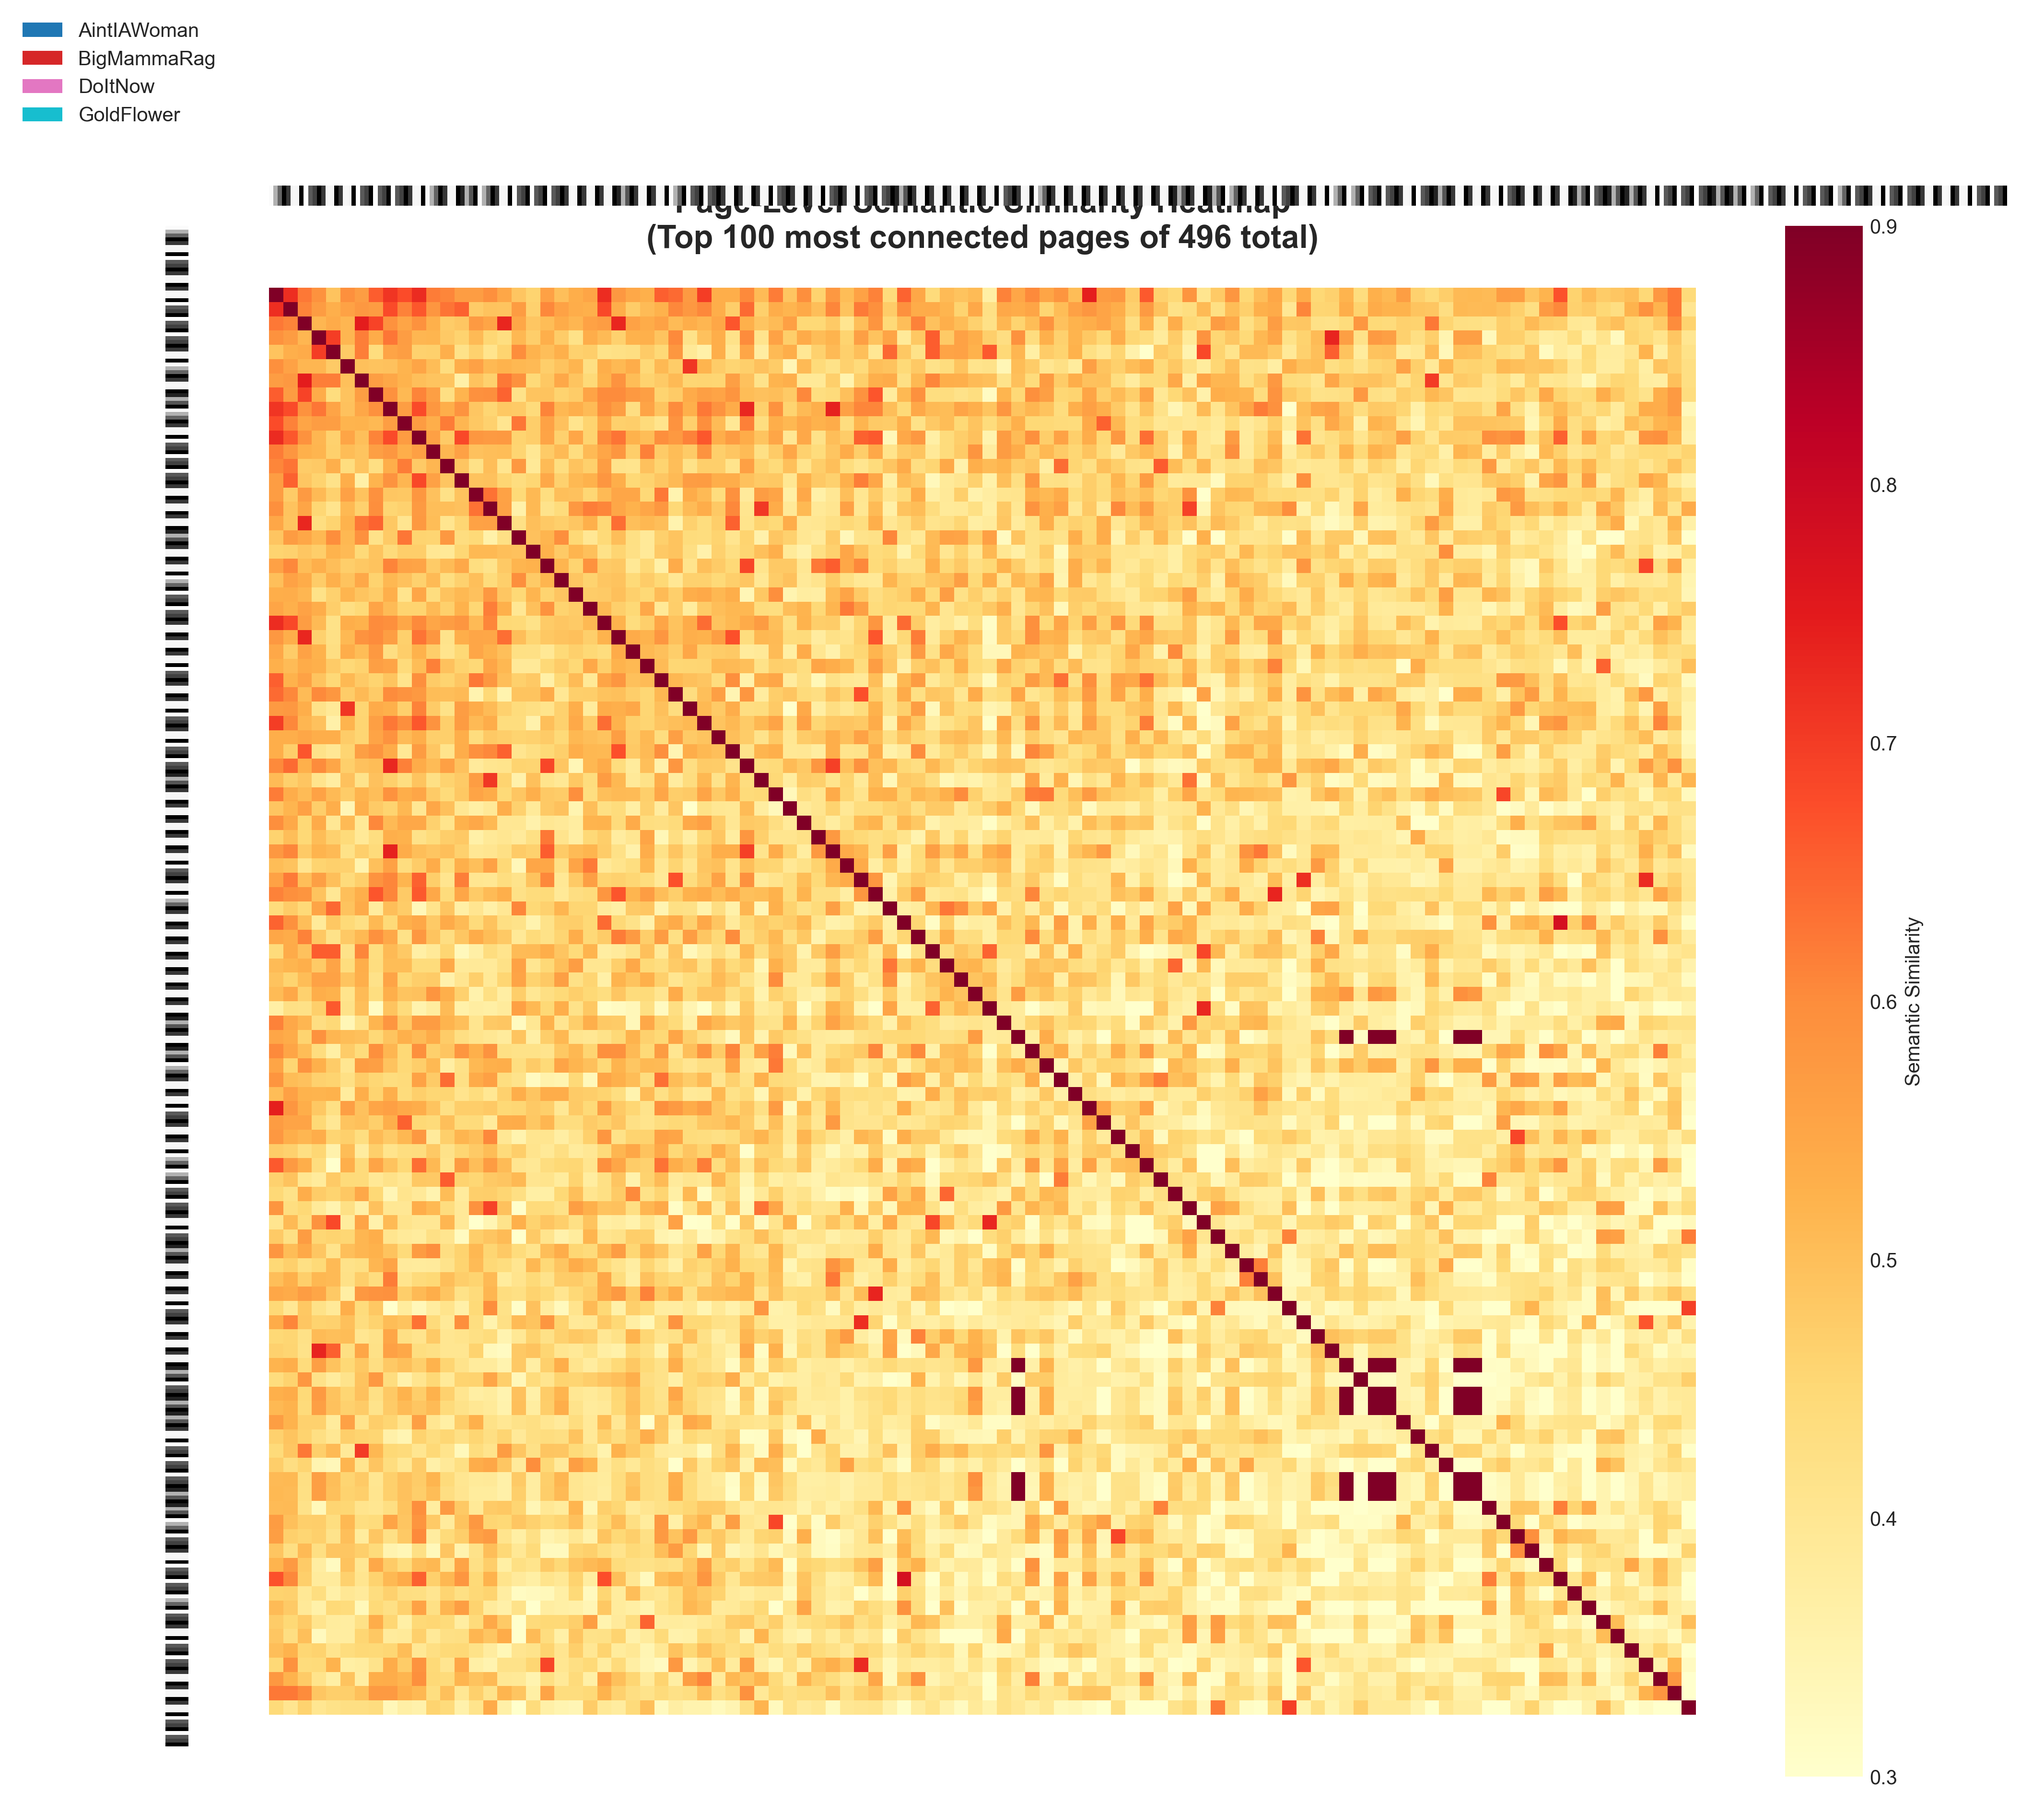
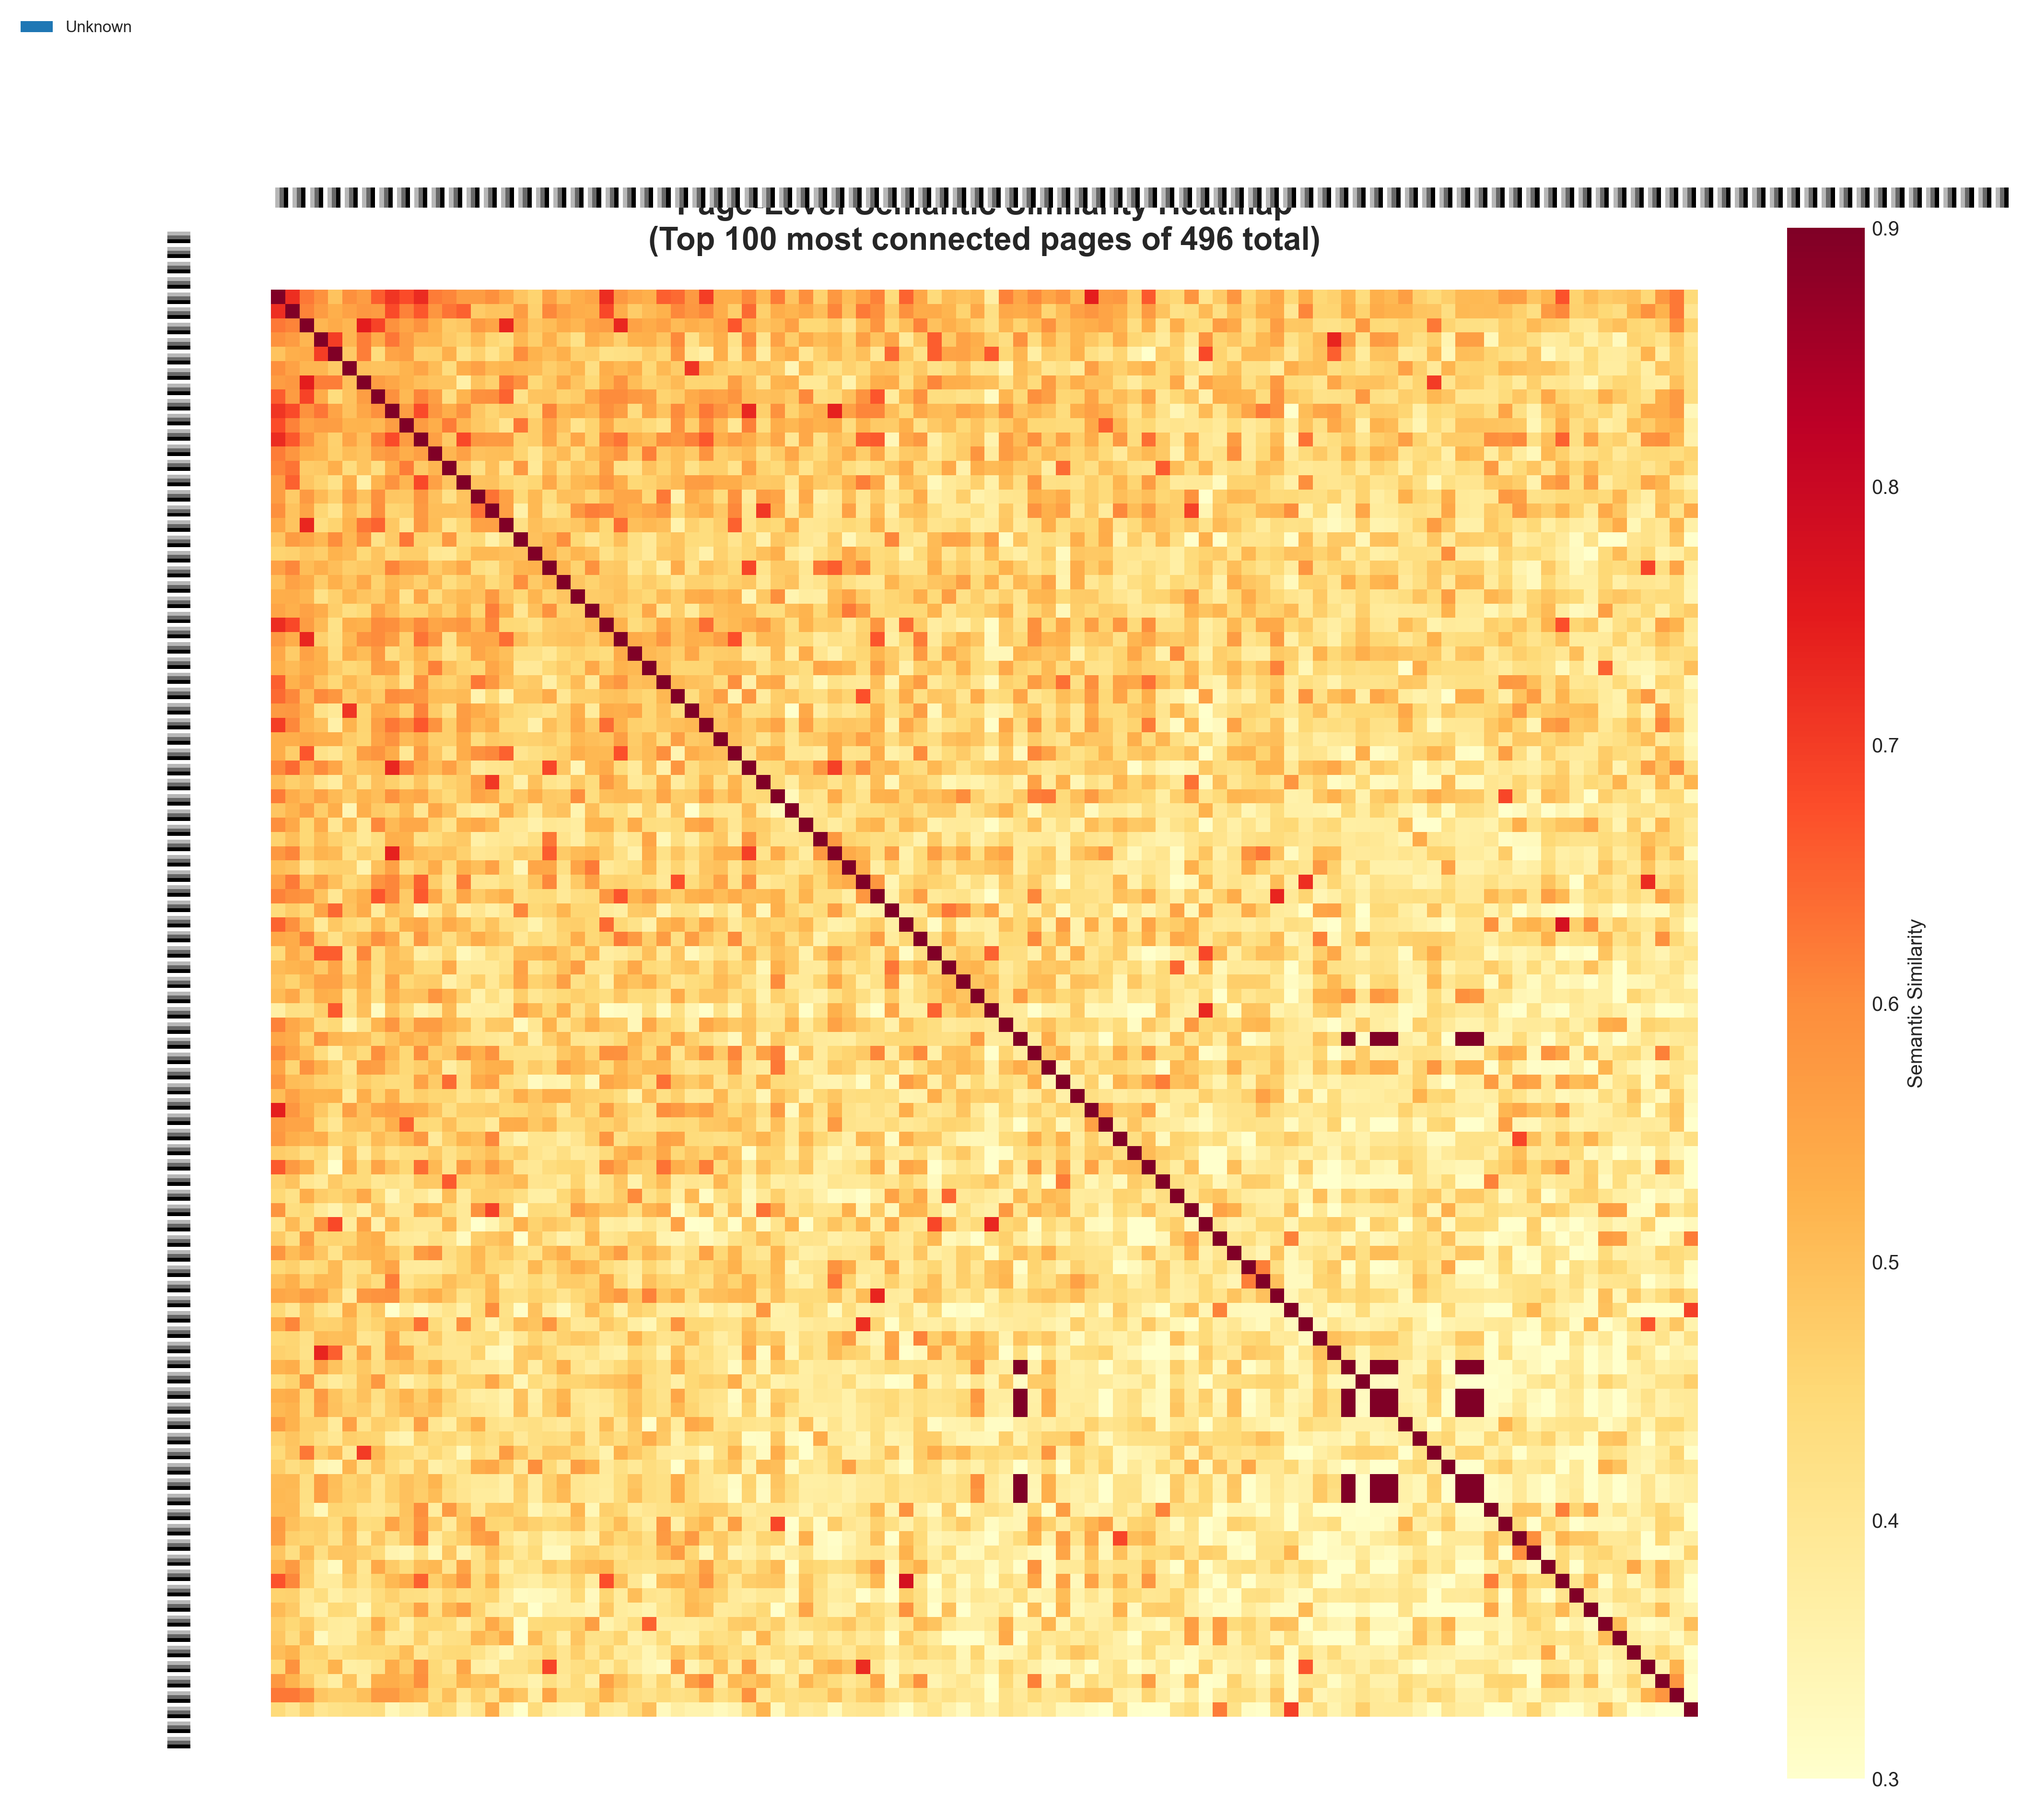
okay really giving up now - tried to color code by issue and didn't help because you still can't read it

diff --git a/visualize_semanticsimilarity.py b/visualize_semanticsimilarity.py
@@ -139,16 +139,26 @@ def create_page_level_heatmap(similarity_matrix, all_pages, page_metadata,
         plot_matrix = similarity_matrix[np.ix_(top_indices, top_indices)]
         plot_pages = [all_pages[i] for i in top_indices]
         
-        # Get publication info for coloring
-        page_pubs = []
+        # Get issue info for coloring
+        page_issues = []
         for page_id in plot_pages:
-            pub = page_metadata[page_metadata['page_id'] == page_id]['publication_name'].iloc[0]
-            page_pubs.append(pub)
+            page_row = page_metadata[page_metadata['page_id'] == page_id]
+            if not page_row.empty and 'issue_date' in page_row.columns:
+                issue = page_row['issue_date'].iloc[0]
+            else:
+                issue = 'Unknown'
+            page_issues.append(str(issue))
     else:
         plot_matrix = similarity_matrix
         plot_pages = all_pages
-        page_pubs = [page_metadata[page_metadata['page_id'] == page_id]['publication_name'].iloc[0] 
-                    for page_id in plot_pages]
+        page_issues = []
+        for page_id in plot_pages:
+            page_row = page_metadata[page_metadata['page_id'] == page_id]
+            if not page_row.empty and 'issue_date' in page_row.columns:
+                issue = page_row['issue_date'].iloc[0]
+            else:
+                issue = 'Unknown'
+            page_issues.append(str(issue))
     
     # Create figure
     fig, ax = plt.subplots(figsize=(16, 14))
@@ -172,13 +182,13 @@ def create_page_level_heatmap(similarity_matrix, all_pages, page_metadata,
         title += f'\n(Top {max_pages} most connected pages of {n_pages} total)'
     ax.set_title(title, fontsize=16, fontweight='bold', pad=20)
     
-    # Add publication color bar on the side
-    publications = sorted(page_metadata['publication_name'].unique())
-    pub_colors = plt.cm.tab10(np.linspace(0, 1, len(publications)))
-    pub_to_color = {pub: pub_colors[i] for i, pub in enumerate(publications)}
+    # Add issue color bar on the side
+    unique_issues = sorted(set(page_issues))
+    issue_colors = plt.cm.tab20(np.linspace(0, 1, len(unique_issues)))
+    issue_to_color = {issue: issue_colors[i] for i, issue in enumerate(unique_issues)}
     
-    # Create color bars for publications
-    colors = [pub_to_color[pub] for pub in page_pubs]
+    # Create color bars for issues
+    colors = [issue_to_color[issue] for issue in page_issues]
     
     # Add colored bars on left and top
     ax_left = fig.add_axes([0.08, 0.125, 0.01, 0.755])
@@ -191,12 +201,20 @@ def create_page_level_heatmap(similarity_matrix, all_pages, page_metadata,
     ax_top.set_xticks([])
     ax_top.set_yticks([])
     
-    # Add legend for publications
+    # Add legend for issues (limit to avoid overcrowding)
     from matplotlib.patches import Patch
-    legend_elements = [Patch(facecolor=pub_to_color[pub], label=pub) 
-                      for pub in publications]
-    fig.legend(handles=legend_elements, loc='upper left', 
-              bbox_to_anchor=(0.01, 0.99), fontsize=10)
+    if len(unique_issues) <= 15:  # Show all if reasonable number
+        legend_elements = [Patch(facecolor=issue_to_color[issue], label=issue) 
+                          for issue in unique_issues]
+        fig.legend(handles=legend_elements, loc='upper left', 
+                  bbox_to_anchor=(0.01, 0.99), fontsize=8)
+    else:  # Show sample if too many
+        sample_issues = unique_issues[::len(unique_issues)//10]  # Sample every nth issue
+        legend_elements = [Patch(facecolor=issue_to_color[issue], label=issue) 
+                          for issue in sample_issues]
+        fig.legend(handles=legend_elements, loc='upper left', 
+                  bbox_to_anchor=(0.01, 0.99), fontsize=8, 
+                  title=f"Issues (showing {len(sample_issues)} of {len(unique_issues)})")
     
     plt.savefig(OUTPUT_DIR / output_file, dpi=300, bbox_inches='tight')
     print(f"✓ Saved page-level heatmap to: {OUTPUT_DIR / output_file}")
